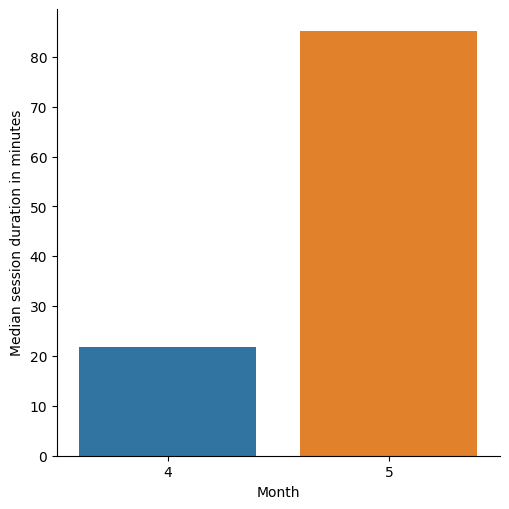
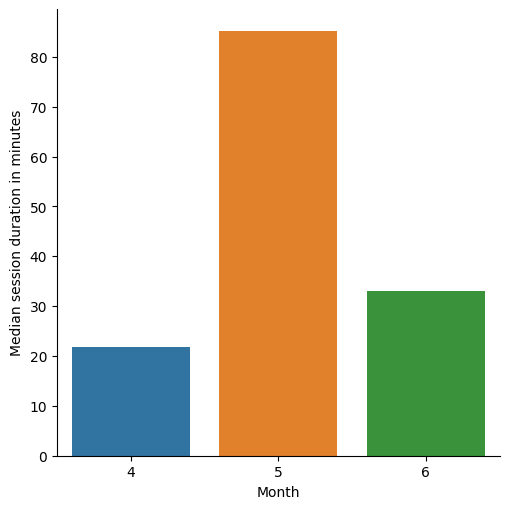
"Stats generated 2021-06-02"

diff --git a/all/2021/6/index.html b/all/2021/6/index.html
@@ -1,0 +1,54 @@
+<!DOCTYPE html>
+<html>
+  <head>
+    <meta charset="utf-8"/>
+    <title>June 2021</title>
+    <link rel="stylesheet" href="../../../styles.css"/>
+  </head>
+  <body>
+    <div id="container">
+      <nav>
+        <ul>
+          
+            <li><a href="../">2021</a></li>
+            <li class="separator"></li>
+          
+          
+            
+              <li><span>Weekdays</span></li>
+            
+          
+            
+              <li><a href="weekdays/1/">Tuesday</a></li>
+            
+          
+            
+              <li><span>Day of Month</span></li>
+            
+          
+            
+              <li><a href="days/1/">1</a></li>
+            
+          
+        </ul>
+      </nav>
+      <main>
+        <h1>June 2021</h1>
+        
+          <h2>Number of sessions per day</h2>
+          <img src="day-sessions.png" alt="Number of sessions per day"/>
+        
+          <h2>Session duration per day</h2>
+          <img src="day-durations.png" alt="Session duration per day"/>
+        
+          <h2>Number of sessions per weekday</h2>
+          <img src="weekday-sessions.png" alt="Number of sessions per weekday"/>
+        
+          <h2>Session duration per weekday</h2>
+          <img src="weekday-durations.png" alt="Session duration per weekday"/>
+        
+        
+      </main>
+    </div>
+  </body>
+</html>

diff --git a/all/2021/6/weekdays/1/index.html b/all/2021/6/weekdays/1/index.html
@@ -1,0 +1,29 @@
+<!DOCTYPE html>
+<html>
+  <head>
+    <meta charset="utf-8"/>
+    <title>Tuesdays June 2021</title>
+    <link rel="stylesheet" href="../../../../../styles.css"/>
+  </head>
+  <body>
+    <div id="container">
+      <nav>
+        <ul>
+          
+            <li><a href="../../">June 2021</a></li>
+            <li class="separator"></li>
+          
+          
+        </ul>
+      </nav>
+      <main>
+        <h1>Tuesdays June 2021</h1>
+        
+          <h2>Number of sessions per hour</h2>
+          <img src="sessions.png" alt="Number of sessions per hour"/>
+        
+        
+      </main>
+    </div>
+  </body>
+</html>

diff --git a/all/2021/6/days/1/index.html b/all/2021/6/days/1/index.html
@@ -1,0 +1,29 @@
+<!DOCTYPE html>
+<html>
+  <head>
+    <meta charset="utf-8"/>
+    <title>1 June 2021</title>
+    <link rel="stylesheet" href="../../../../../styles.css"/>
+  </head>
+  <body>
+    <div id="container">
+      <nav>
+        <ul>
+          
+            <li><a href="../../">June 2021</a></li>
+            <li class="separator"></li>
+          
+          
+        </ul>
+      </nav>
+      <main>
+        <h1>1 June 2021</h1>
+        
+          <h2>Number of sessions per hour</h2>
+          <img src="sessions.png" alt="Number of sessions per hour"/>
+        
+        
+      </main>
+    </div>
+  </body>
+</html>

diff --git a/all/2021/index.html b/all/2021/index.html
@@ -22,6 +22,10 @@
               <li><a href="5/">May</a></li>
             
           
+            
+              <li><a href="6/">June</a></li>
+            
+          
         </ul>
       </nav>
       <main>
@@ -103,9 +107,9 @@
                   
                     <td>6.0</td>
                   
-                    <td>0.0</td>
+                    <td>2.0</td>
                   
-                    <td>nan</td>
+                    <td>33.04051955</td>
                   
                 </tr>
               
